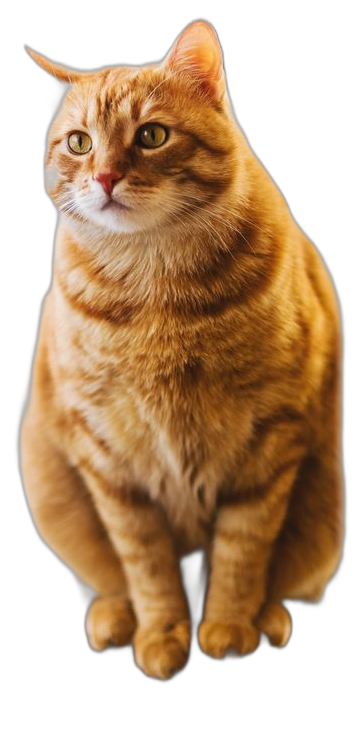
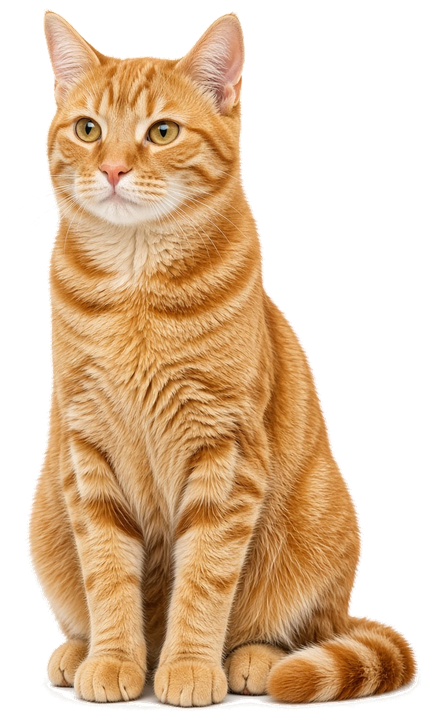
feat(landing): mejorar el gato del testimonio y alinear cutouts
Sustituye el cutout defectuoso por uno limpio y deja los animales bien asentados en la esquina de cada tarjeta.

diff --git a/SV.003-main/frontend/src/pages/landing/landingColleaguesBento.css b/SV.003-main/frontend/src/pages/landing/landingColleaguesBento.css
@@ -199,44 +199,47 @@
   padding-top: 0;
 }
 
-/* Cutout apoyado en el borde inferior — sale de la card */
+/* Cutout en esquina inferior, sujeto centrado en su marco */
 .landing-colleague-pet {
   position: absolute;
-  right: -0.35rem;
-  bottom: -1.35rem;
+  left: auto;
+  right: 0.15rem;
+  bottom: -1.25rem;
   z-index: 3;
   width: auto;
   height: auto;
-  max-width: 10.25rem;
-  max-height: 11.5rem;
+  max-width: 9.75rem;
+  max-height: 11rem;
   object-fit: contain;
-  object-position: bottom right;
+  object-position: bottom center;
   opacity: 1;
   filter: drop-shadow(0 14px 18px rgba(12, 45, 77, 0.28));
   pointer-events: none;
-  transform-origin: 70% 100%;
+  transform: none;
+  transform-origin: 50% 100%;
   transition: transform 0.4s cubic-bezier(0.22, 1, 0.36, 1);
 }
 
 .landing-colleagues-bento > li:nth-child(2) .landing-colleague-pet {
-  max-width: 9.5rem;
-  max-height: 11rem;
-  right: -0.15rem;
-  bottom: -1.2rem;
+  max-width: 9rem;
+  max-height: 10.5rem;
+  right: 0.25rem;
+  bottom: -1.15rem;
 }
 
 .landing-colleagues-bento > li:nth-child(3) .landing-colleague-pet {
-  max-width: 10.75rem;
-  max-height: 12rem;
-  right: -0.45rem;
-  bottom: -1.45rem;
+  max-width: 10.25rem;
+  max-height: 11.5rem;
+  right: 0;
+  bottom: -1.35rem;
 }
 
 /* Sombra elíptica bajo las patas */
 .landing-colleague-card::after {
   content: "";
   position: absolute;
-  right: 1.35rem;
+  left: auto;
+  right: 1.6rem;
   bottom: -0.15rem;
   z-index: 1;
   width: 5.25rem;
@@ -245,6 +248,7 @@
   background: rgba(12, 45, 77, 0.16);
   filter: blur(5px);
   pointer-events: none;
+  transform: none;
 }
 
 .landing-colleague-curve {
@@ -257,7 +261,7 @@
 
 @media (hover: hover) and (pointer: fine) {
   .landing-colleague-card:hover .landing-colleague-pet {
-    transform: translateY(-10px) scale(1.04) rotate(-2deg);
+    transform: translateY(-10px) scale(1.04);
   }
 
   .landing-colleague-card:hover::after {
@@ -307,9 +311,10 @@
 
 @media (max-width: 639px) {
   .landing-colleague-pet {
-    max-width: 8.5rem;
-    max-height: 9.75rem;
-    bottom: -1.1rem;
+    max-width: 8.25rem;
+    max-height: 9.5rem;
+    bottom: -1rem;
+    right: 0.1rem;
   }
 
   .landing-colleague-quote,

diff --git a/SV.003-main/frontend/src/pages/landing/landingAntiSlop.css b/SV.003-main/frontend/src/pages/landing/landingAntiSlop.css
@@ -811,10 +811,12 @@ html.dark .landing-clinical-workflow-section .landing-eyebrow {
 
 .landing-colleague-pet {
   opacity: 1 !important;
-  max-width: 10.25rem !important;
-  max-height: 11.5rem !important;
-  bottom: -1.35rem !important;
-  right: -0.35rem !important;
+  left: auto !important;
+  right: 0.15rem !important;
+  max-width: 9.75rem !important;
+  max-height: 11rem !important;
+  bottom: -1.25rem !important;
+  object-position: bottom center !important;
   filter: drop-shadow(0 14px 18px rgba(12, 45, 77, 0.28)) !important;
 }
 
